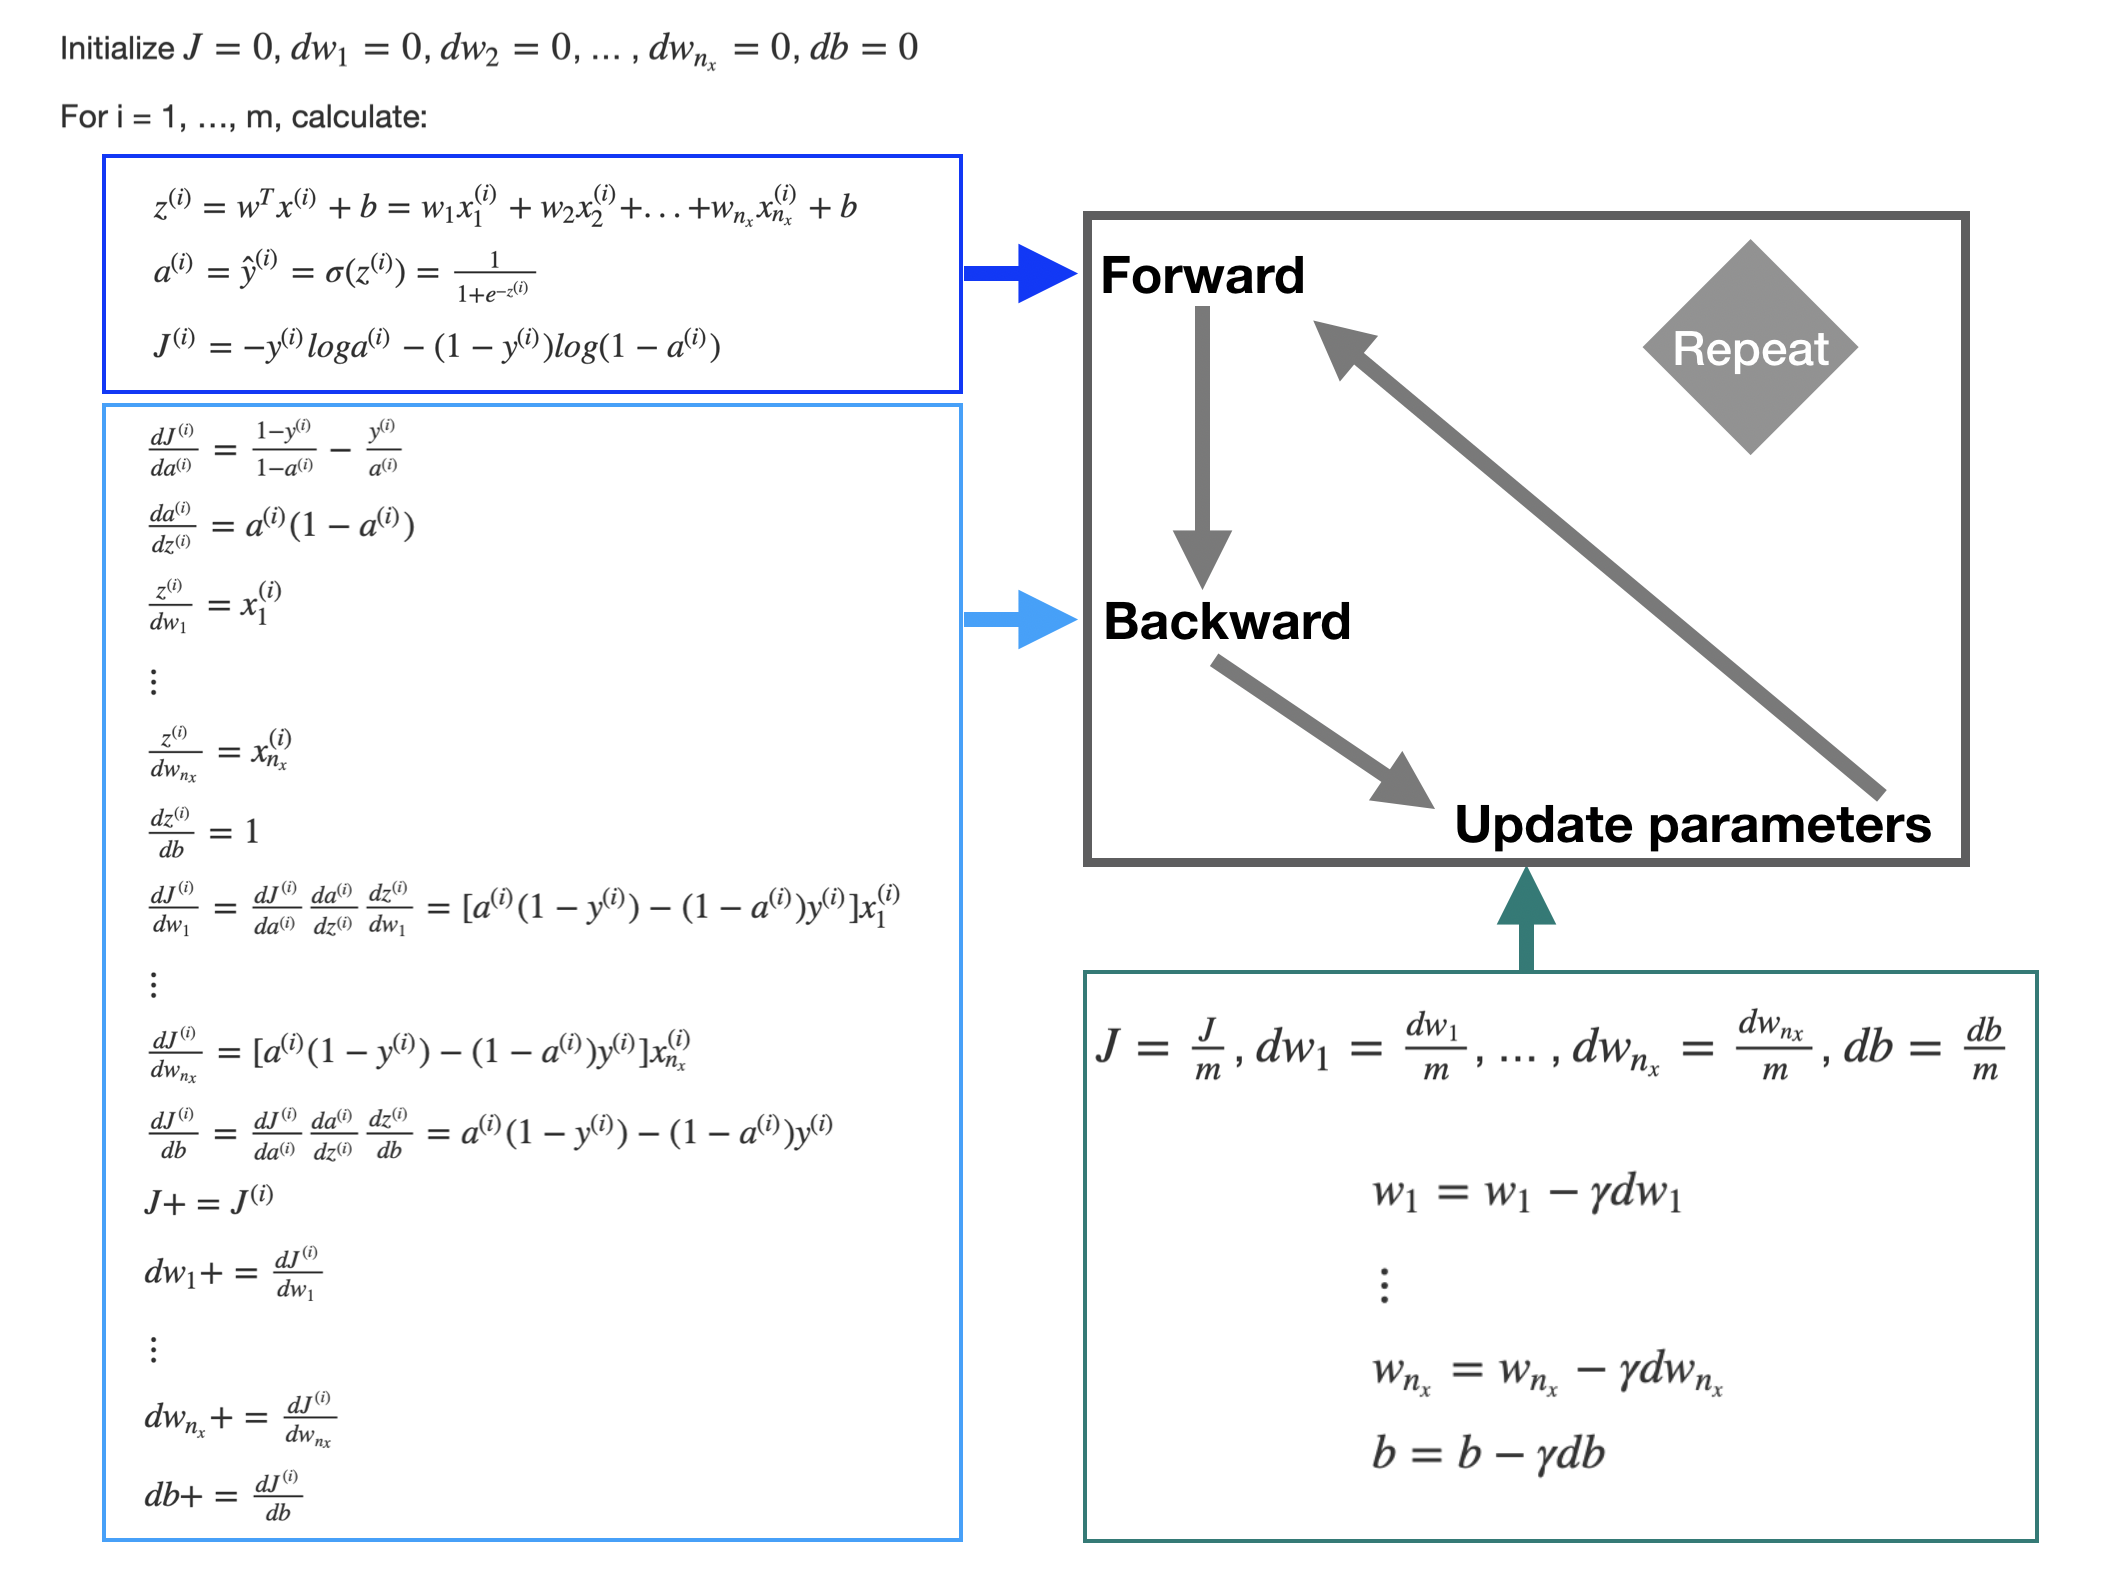
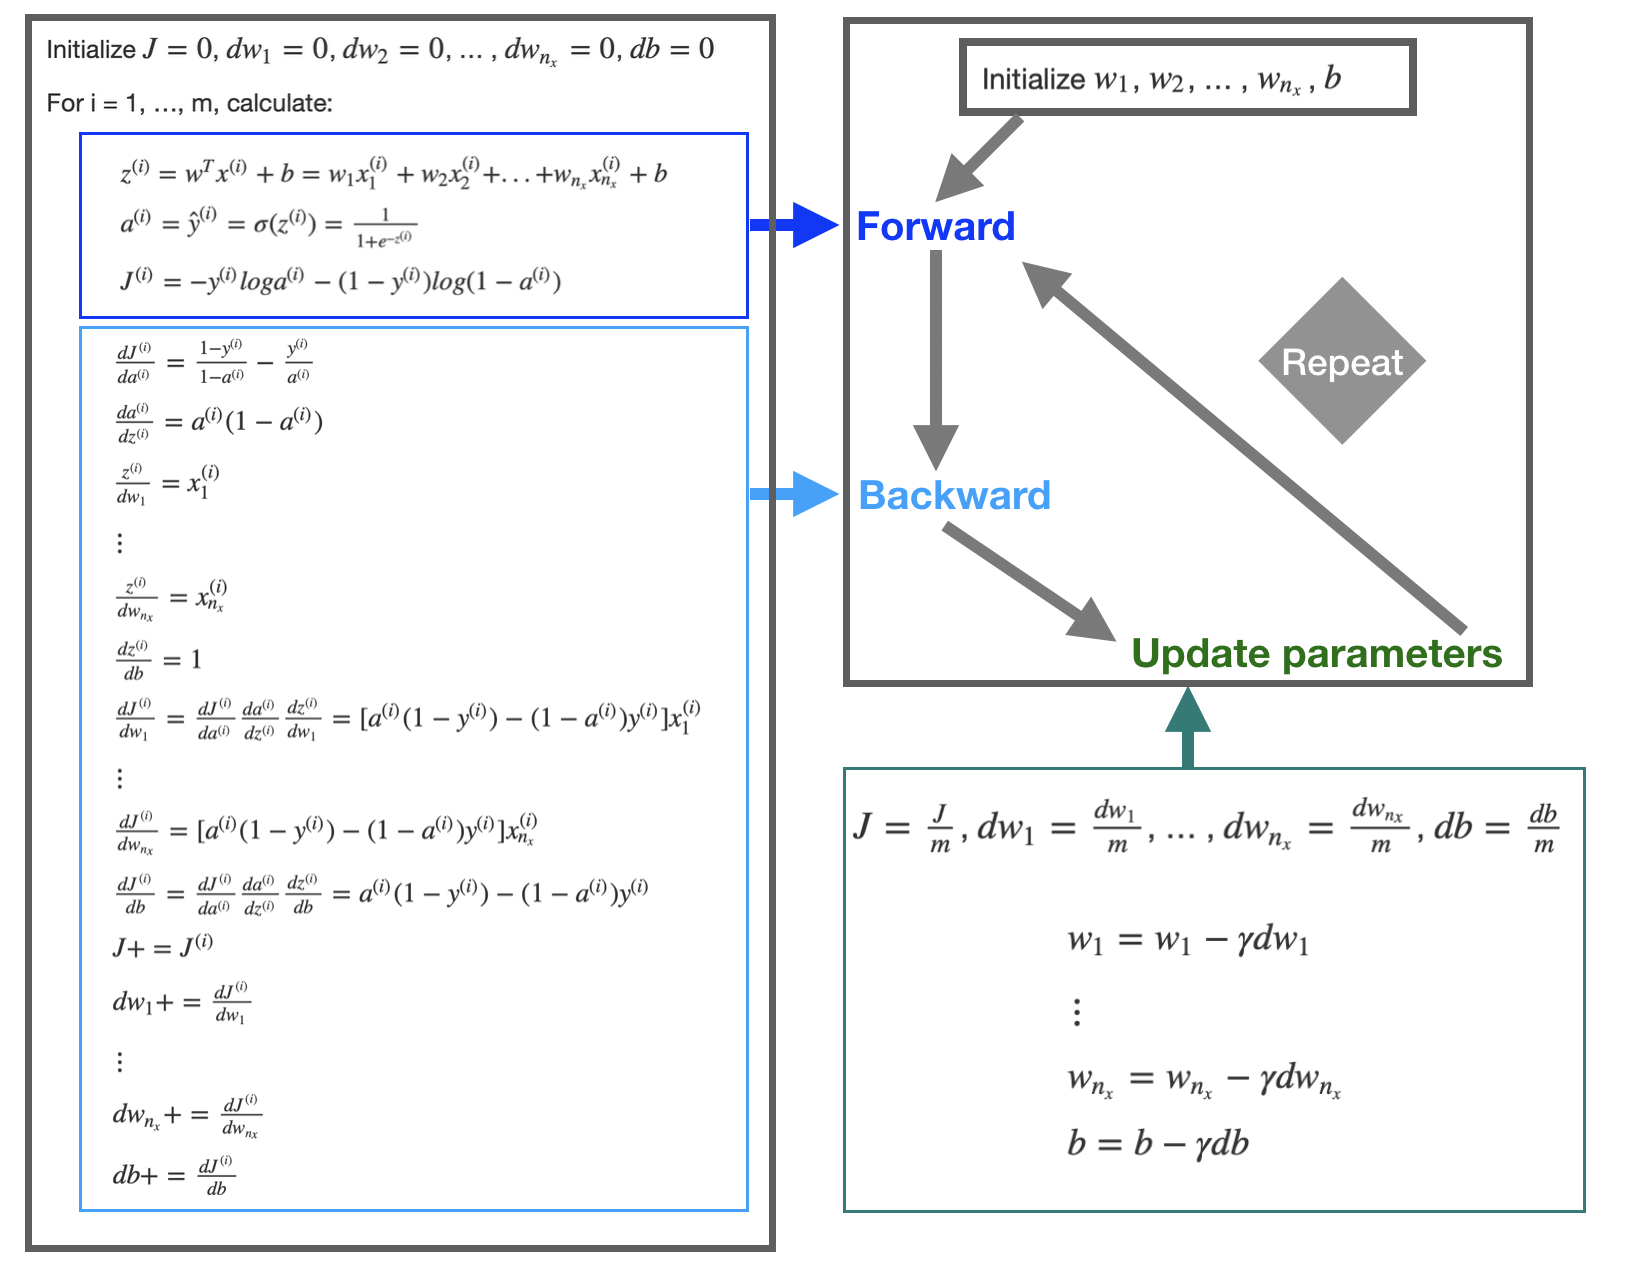
geadient descent

diff --git a/BackUp/gd_algorithm.html b/BackUp/gd_algorithm.html
@@ -125,6 +125,7 @@ $(document).ready(function () {
 </div>
 
 
+<p>Initialize <span class="math inline">\(w_1\)</span>, <span class="math inline">\(w_2\)</span>, … , <span class="math inline">\(w_{n_x}\)</span>, <span class="math inline">\(b\)</span></p>
 <p>Initialize <span class="math inline">\(J=0\)</span>, <span class="math inline">\(dw_1=0\)</span>, <span class="math inline">\(dw_2=0\)</span>, … , <span class="math inline">\(dw_{n_x} = 0\)</span>, <span class="math inline">\(db = 0\)</span></p>
 <p>For i = 1, …, m, calculate:</p>
 <p><span class="math inline">\(z^{(i)} = w^{T}x^{(i)} + b = w_1x_1^{(i)} + w_2x_2^{(i)} + ... + w_{n_x}x_{n_x}^{(i)} + b\)</span></p>
